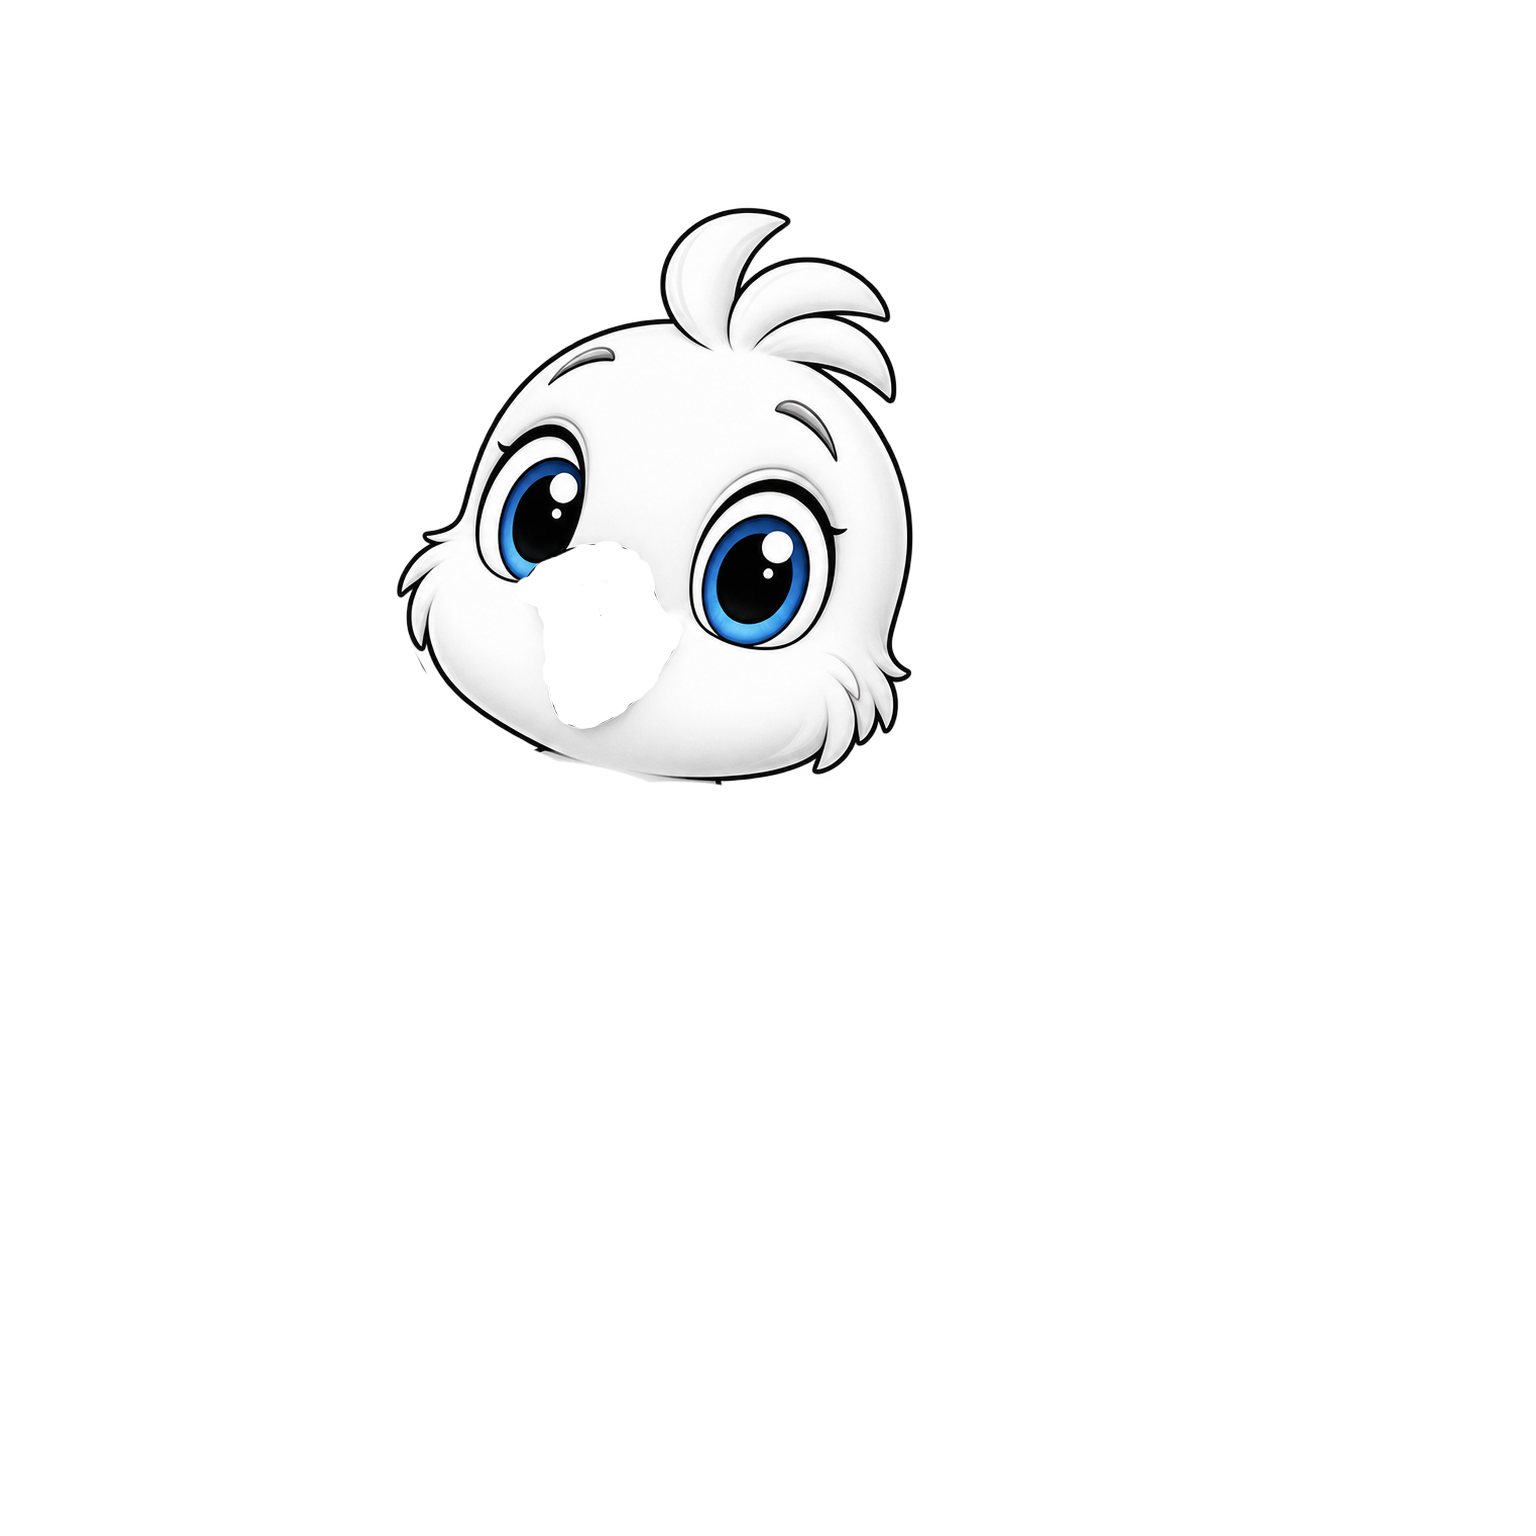
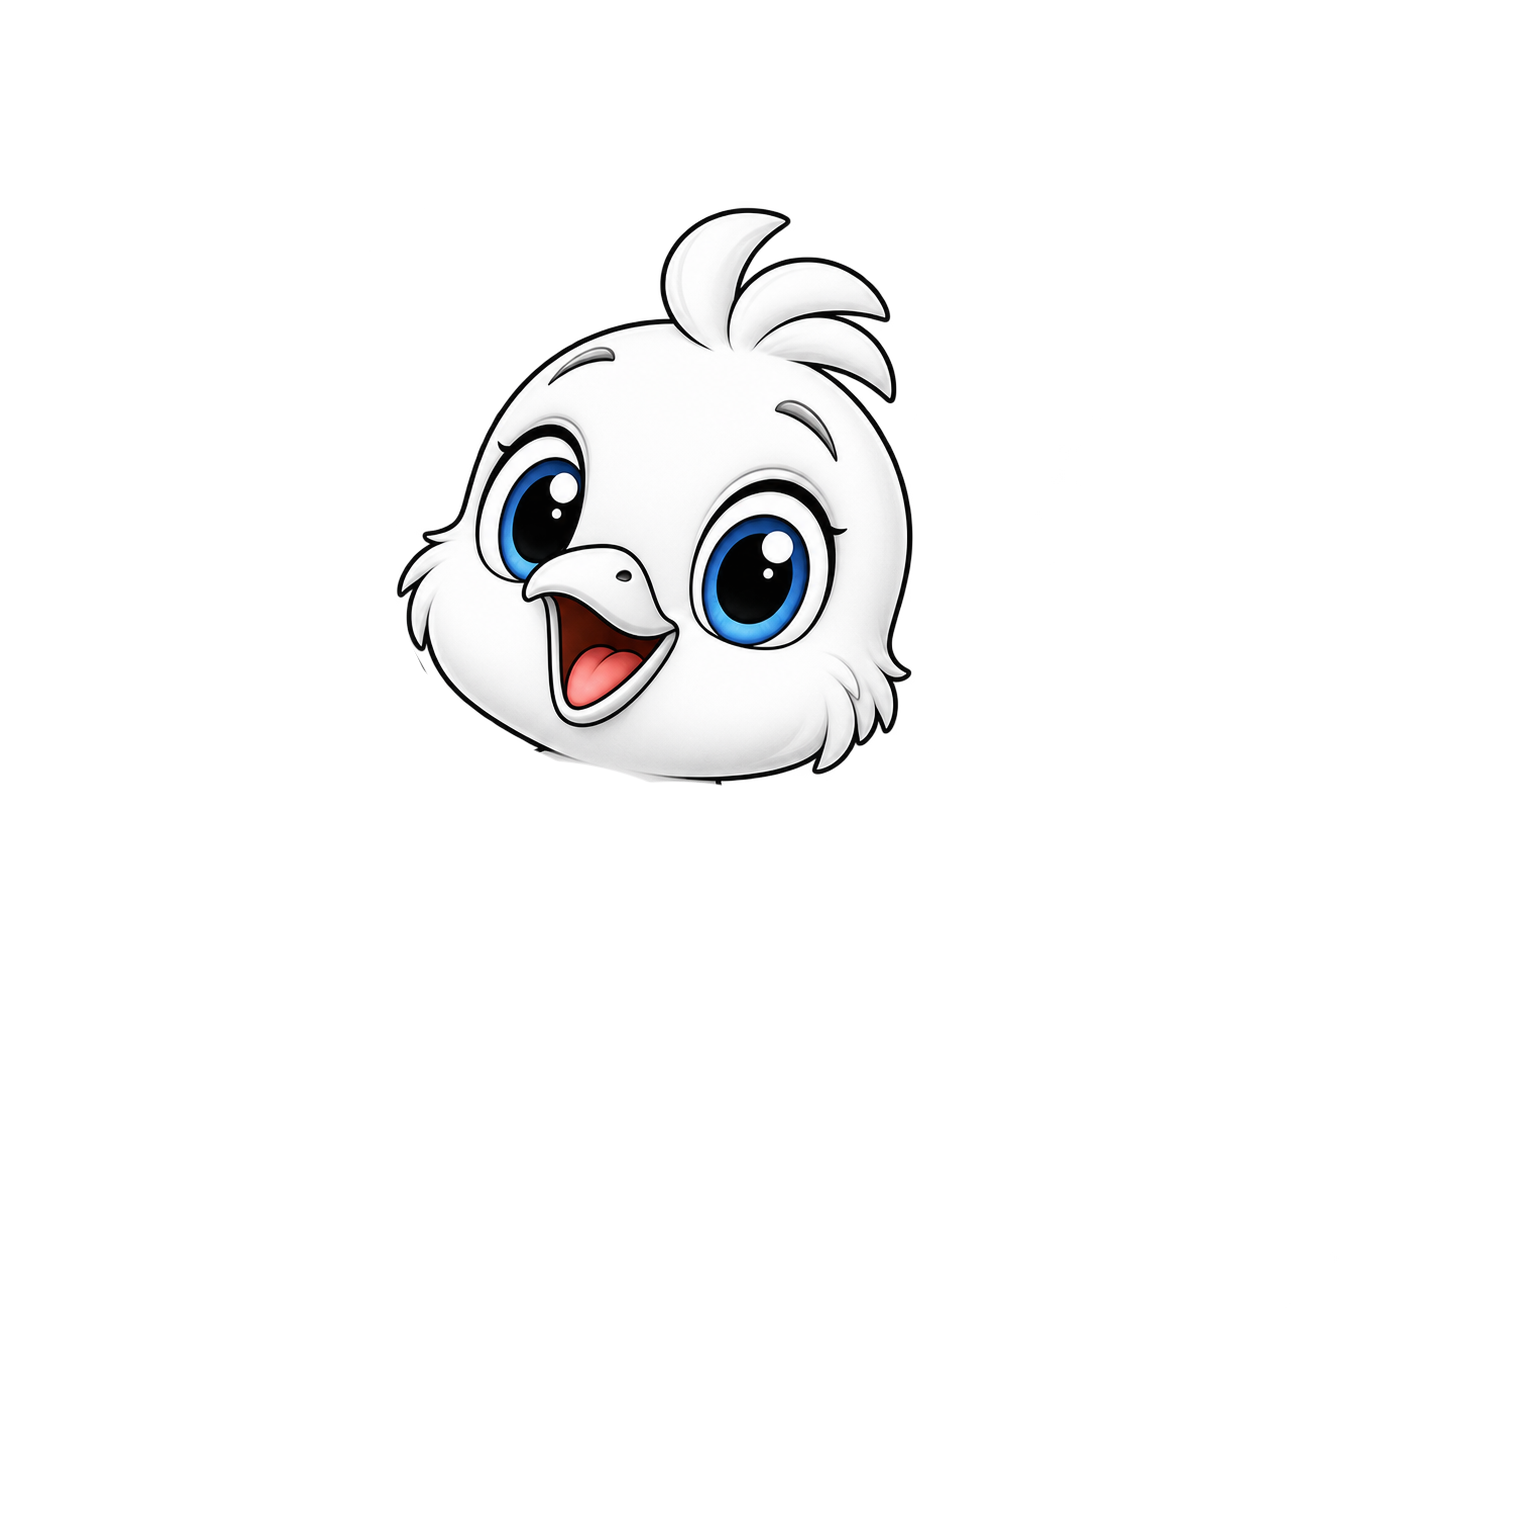
c

Changed region(s): [[0.3438, 0.3438, 0.4375, 0.4688]]

diff --git a/game-engine.js b/game-engine.js
@@ -687,7 +687,7 @@
                 lifeButtonEnabled: true,
                 lifeStatus: "Confira seu patinho antes de dar vida.",
                 lifeSpeech: "QUA! QUA! SEU PATINHO GANHOU VIDA NO JARDIM!",
-                visualBase: "",
+                visualBase: patinhoAsset("PATINHO_GOLDEN_MASTER_V1_1536x1536.png"),
                 protectedOverlay: "",
                 previewWidth: 1536,
                 previewHeight: 1536,
